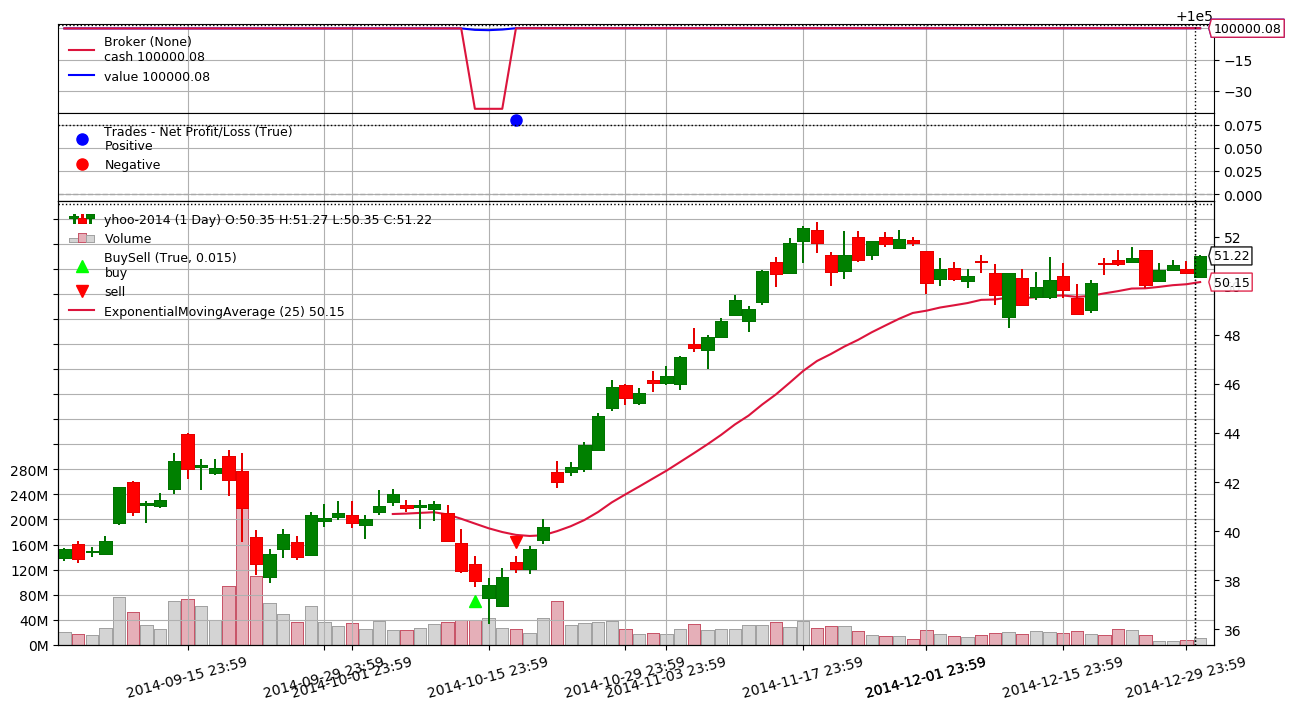
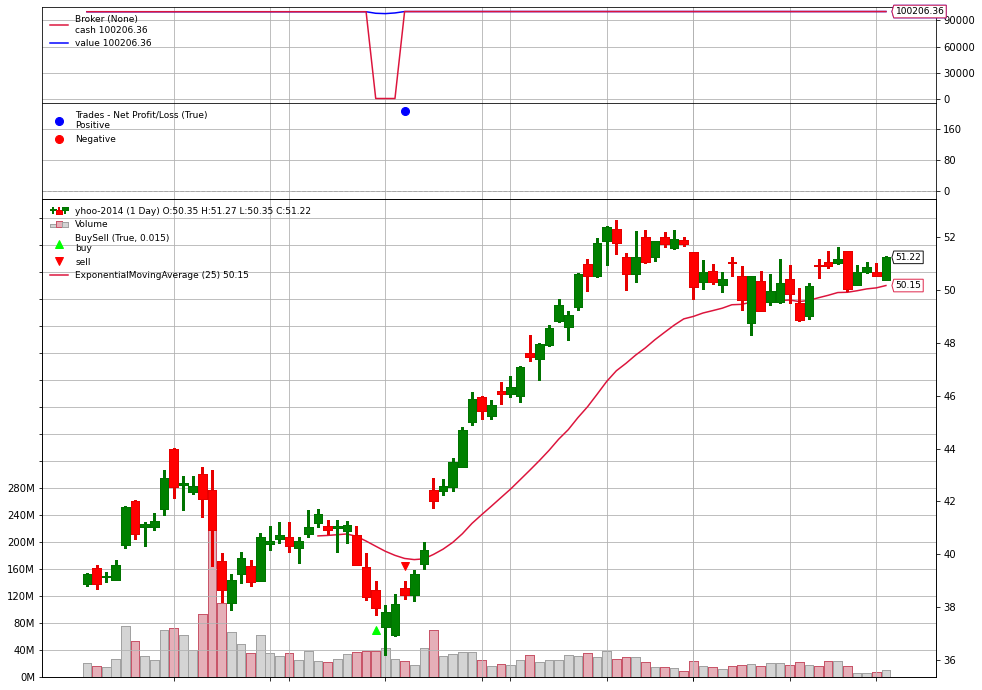
fix negative cash issue
adjust position sizing

Changed region(s): [[0.0, 0.0, 1.0, 1.0], [0.1222, 0.5174, 0.1833, 0.5783], [0.0305, 0.5174, 0.0611, 0.5783]]

diff --git a/section2/task1_hello world.py b/section2/task1_hello world.py
@@ -122,6 +122,9 @@ cerebro.adddata(data)
 # Set our desired cash start
 cerebro.broker.setcash(100000.0)
 
+# add sizer
+cerebro.addsizer(bt.sizers.PercentSizer, percents=99) ## adjust position sizing, so that cash will not be negative
+
 # keep print(log) to file
 sys.stdout = open("log/yahoo_log.txt", "w")
 
